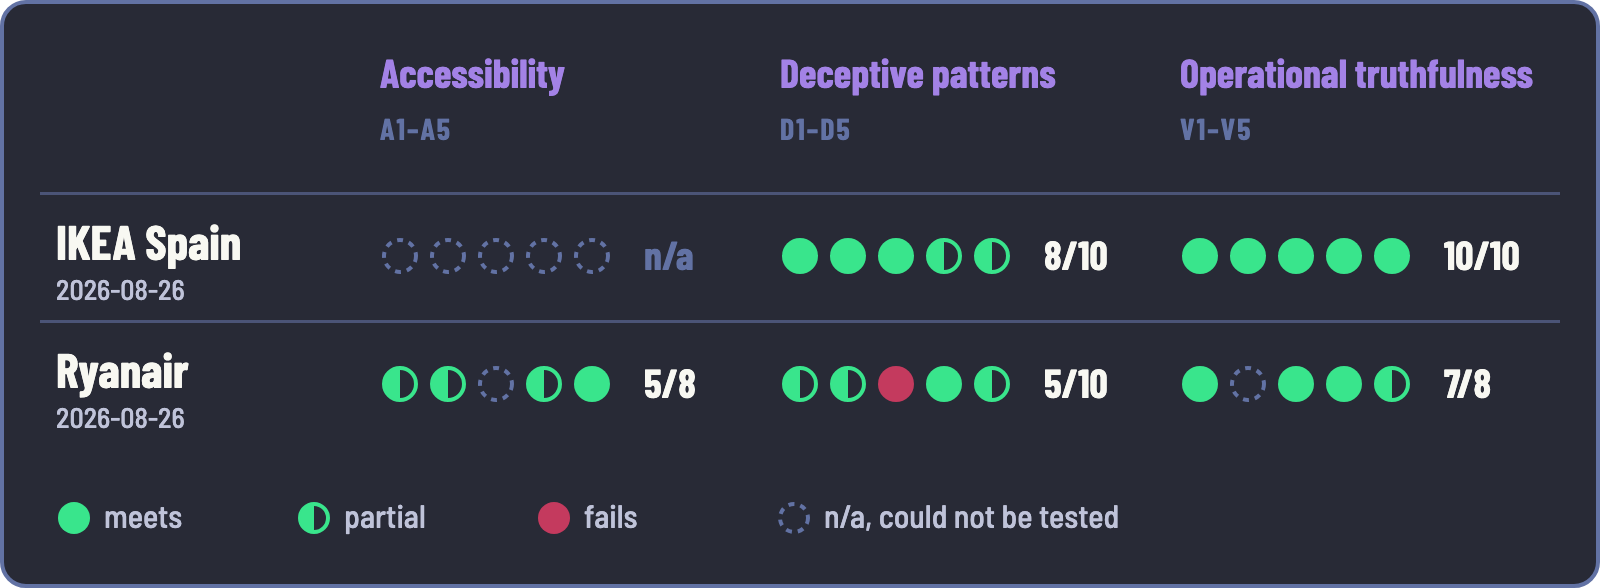
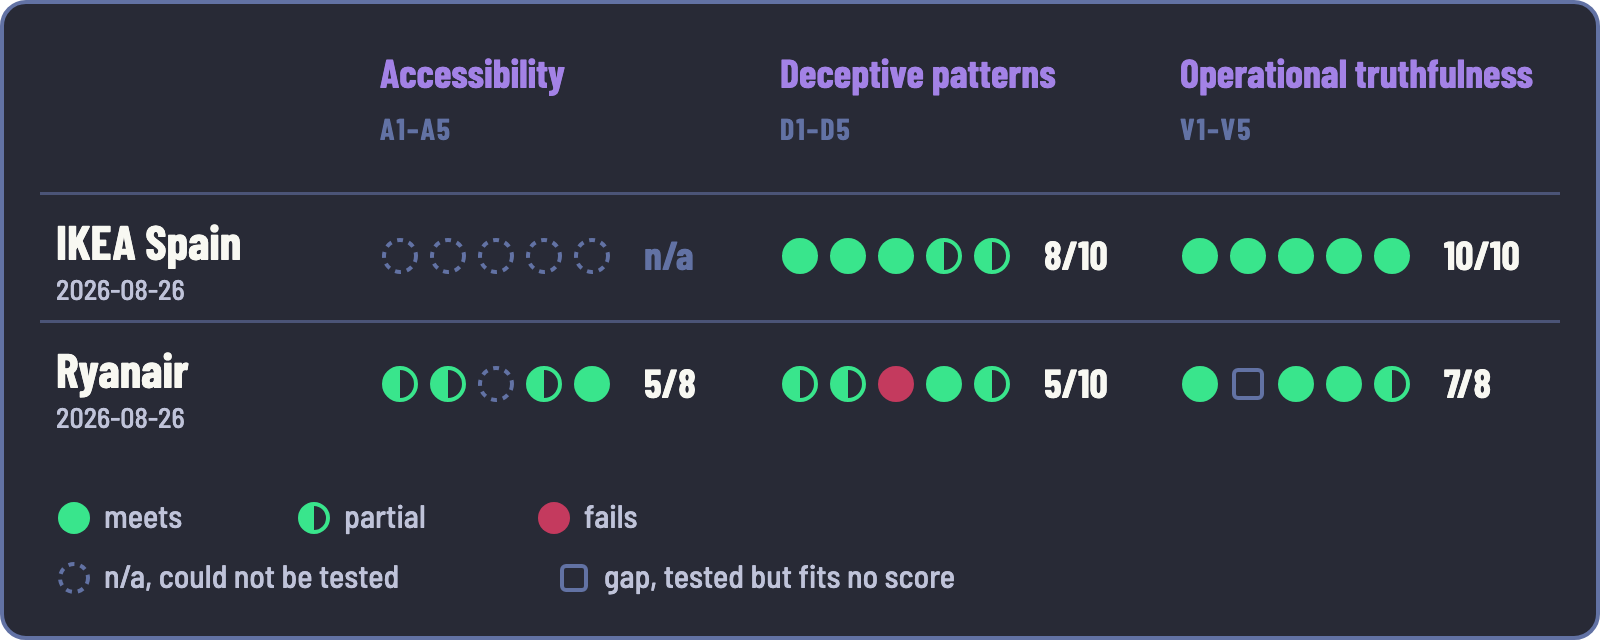
README: rúbricas v1.1, marca gap en el cuadro de resultados (5A y 8A de Sol, 8/10)
Built with Claude Code.

diff --git a/README.md b/README.md
@@ -2,7 +2,7 @@
 
 <p align="center">
 <a href="LICENSE"><img src="https://img.shields.io/badge/license-CC%20BY%204.0-4a5568" alt="License: CC BY 4.0"></a>
-<a href="metodo/"><img src="https://img.shields.io/badge/rubrics-v1.0-4a5568" alt="Rubrics v1.0"></a>
+<a href="metodo/"><img src="https://img.shields.io/badge/rubrics-v1.1-4a5568" alt="Rubrics v1.1"></a>
 <a href="#results"><img src="https://img.shields.io/badge/sites%20audited-2-4a5568" alt="Sites audited: 2"></a>
 </p>
 
@@ -24,7 +24,7 @@ Methodological base: the [taxonomy of failures in an agentic system](metodo/taxo
 
 <p align="center"><img src="images/results.png" alt="IKEA Spain, audited 2026-08-26: accessibility not run yet, deceptive patterns 8 out of 10, operational truthfulness 10 out of 10. Ryanair, audited 2026-08-26: accessibility 5 out of 8, deceptive patterns 5 out of 10, operational truthfulness 7 out of 8." width="800"></p>
 
-Each criterion scores 2, 1 or 0. A criterion that could not be tested is n/a, and n/a never counts as zero: the score reads "X out of Y applicable". Higher is better.
+Each criterion scores 2, 1 or 0. A criterion that could not be tested is n/a. A criterion that was tested but whose behaviour fits no score is a gap, recorded with its evidence in the [rubric gaps file](metodo/huecos-de-rubrica-piloto.md). Neither counts as zero: the score reads "X out of Y applicable". Higher is better.
 
 📄 Full reports, with transcripts and evidence: [IKEA Spain](fichas/ikea/ficha.md) · [Ryanair](fichas/ryanair/ficha.md). More sites in progress.
 
